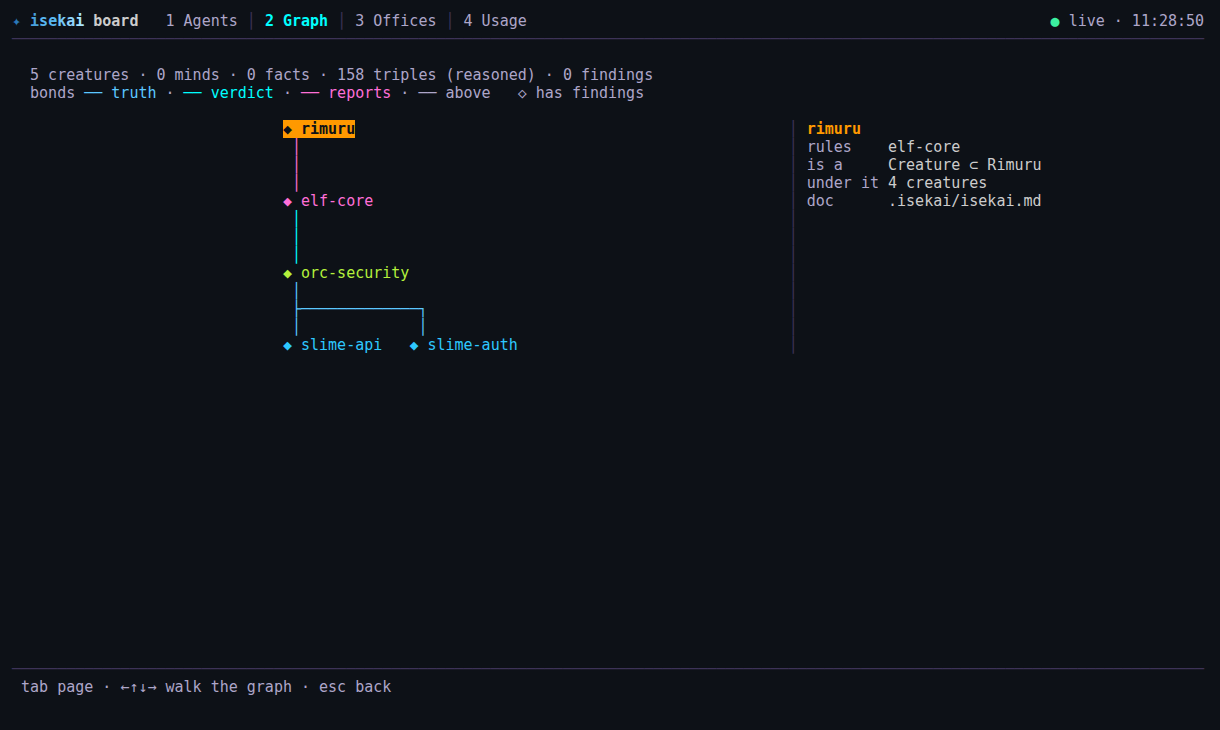
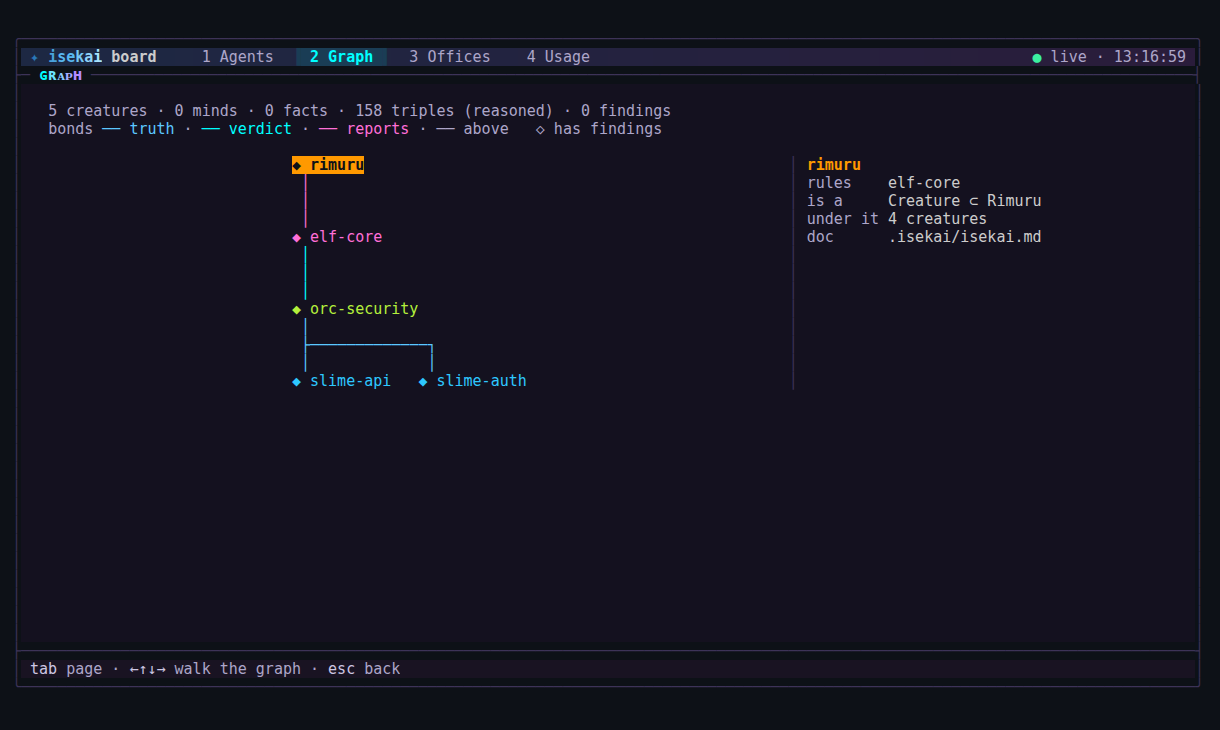
feat(tui): /board wears the session's frame — the rounded border on the ground, the raised header with the page tabs as chips, the page named in its rule, the page on the plane, the keys in the status bar, the headroom row kept; a short window tightens Usage before it scrolls

diff --git a/tui/board.go b/tui/board.go
@@ -2,6 +2,7 @@ package tui
 
 import (
 	"fmt"
+	"image/color"
 	"strings"
 	"time"
 
@@ -218,17 +219,24 @@ func (m *Model) boardUpdate(msg tea.Msg) (tea.Cmd, bool) {
 
 // boardView draws the whole screen: tabs, the page, the key line.
 func (m *Model) boardView() string {
-	b, t, w, h := m.board, m.theme, m.width, m.height
-	if h < 8 {
-		h = 8
+	b, t, w, h := m.board, m.theme, m.width, m.height-paneTop
+	if h < 9 {
+		h = 9
 	}
+	// the board wears the session's frame: the rounded border on the ground, the raised header
+	// with the page tabs as chips, a region rule naming the page, the page on the plane, the keys
+	// in the status bar — the same look, palette and depth as the conversation it replaces
+	accentHue := t.accent.GetForeground()
 	var tabs []string
 	for i, p := range boardPages {
 		label := fmt.Sprintf(" %d %s ", i+1, p)
-		if i == b.page {
+		switch {
+		case i == b.page && t.Depth:
+			tabs = append(tabs, t.pillChip(accentHue, label))
+		case i == b.page:
 			tabs = append(tabs, t.accent.Bold(true).Underline(true).Render(label))
-		} else {
-			tabs = append(tabs, t.dim.Render(label))
+		default:
+			tabs = append(tabs, " "+t.dim.Render(label)+" ")
 		}
 	}
 	title := Title(m.words.Dist) + t.tag.Render(" board")
@@ -236,16 +244,17 @@ func (m *Model) boardView() string {
 	if b.loaded {
 		status = t.ok.Render("●") + t.dim.Render(" live · "+b.view.At.Format("15:04:05"))
 	}
-	head := title + "  " + strings.Join(tabs, t.border.Render("│"))
+	inner := w - 4 // between "│ " and " │"
+	head := title + "   " + strings.Join(tabs, "")
+	// the tabs' click spans, in screen columns: the frame's "│ " comes first
 	b.tabX = b.tabX[:0]
-	x := lipgloss.Width(title) + 2
-	for i, p := range boardPages {
-		w := lipgloss.Width(fmt.Sprintf(" %d %s ", i+1, p))
-		b.tabX = append(b.tabX, [2]int{x, x + w})
-		x += w + 1
+	x := 2 + lipgloss.Width(title) + 3
+	for _, tb := range tabs {
+		tw := lipgloss.Width(tb)
+		b.tabX = append(b.tabX, [2]int{x, x + tw})
+		x += tw
 	}
-	head = padBetween(head, status, w)
-	rule := t.border.Render(strings.Repeat("─", w))
+	head = padBetween(head, status, inner)
 
 	var lines []string
 	cur := -1
@@ -260,7 +269,18 @@ func (m *Model) boardView() string {
 	case pageUsage:
 		lines, cur = m.boardUsage()
 	}
-	body := h - 4
+	body := h - 6 // top border, header, rule · rule, status, bottom border
+	// a short window tightens Usage before it scrolls: its spacer rows go (it has no click
+	// targets, so no hit moves)
+	if b.page == pageUsage && len(lines) > body {
+		kept := lines[:0:0]
+		for _, l := range lines {
+			if strings.TrimSpace(ansi.Strip(l)) != "" {
+				kept = append(kept, l)
+			}
+		}
+		lines = kept
+	}
 	// the cursor: clamped to the page, and kept in view
 	if len(lines) == 0 {
 		lines = []string{""}
@@ -298,9 +318,6 @@ func (m *Model) boardView() string {
 	for len(view) < body {
 		view = append(view, "")
 	}
-	for i, l := range view {
-		view[i] = ansi.Truncate(l, w, "…")
-	}
 	keys := "tab page · ↑↓ select · enter detail · esc back"
 	if b.page == pageGraph {
 		keys = "tab page · ←↑↓→ walk the graph · esc back"
@@ -312,8 +329,48 @@ func (m *Model) boardView() string {
 	if len(lines) > body {
 		more = fmt.Sprintf("%d–%d of %d", off+1, end, len(lines))
 	}
-	foot := padBetween(t.dim.Render(" "+keys), t.dim.Render(more+" "), w)
-	return strings.Join(append(append([]string{head, rule}, view...), rule, foot), "\n")
+
+	// the frame's paints: identity when the depth is off
+	g := func(s string) string { return t.border.Render(s) }
+	plane, headP, statusP := func(s string) string { return s }, func(s string) string { return s }, func(s string) string { return s }
+	ruleP := func(s string) string { return s }
+	if t.Depth {
+		d := t.dep
+		ground := d.ground.col()
+		bf := t.border.GetForeground()
+		g = func(s string) string { return gl(s, bf, ground) }
+		pc := d.plane.col()
+		plane = func(s string) string { return paintBg(s, pc) }
+		from, to := t.headerTints()
+		hw := w - 2
+		ramp := make([]color.Color, hw)
+		for x := range ramp {
+			ramp[x] = from.mix(to, float64(x)/float64(max(hw-1, 1))).col()
+		}
+		headP = func(s string) string { return paint(s, func(x int) color.Color { return ramp[min(x, hw-1)] }) }
+		sb := t.statusBg()
+		statusP = func(s string) string { return paintBg(s, sb) }
+		ruleP = func(s string) string { return paintBg(s, ground) }
+	}
+	pageTitle := t.regionTitle(strings.ToLower(boardPages[b.page]))
+	out := make([]string, 0, h+paneTop)
+	for i := 0; i < paneTop; i++ {
+		out = append(out, strings.Repeat(" ", w))
+	}
+	out = append(out, g("╭")+ruleP(t.rule(w-2, "", ""))+g("╮"))
+	out = append(out, g("│")+headP(" "+fit(head, inner)+" ")+g("│"))
+	aside := ""
+	if more != "" {
+		aside = t.dim.Render(more)
+	}
+	out = append(out, g("├")+ruleP(t.rule(w-2, pageTitle, aside))+g("┤"))
+	for _, l := range view {
+		out = append(out, g("│")+plane(" "+fit(ansi.Truncate(l, inner, "…"), inner)+" ")+g("│"))
+	}
+	out = append(out, g("├")+ruleP(t.rule(w-2, "", ""))+g("┤"))
+	out = append(out, g("│")+statusP(" "+fit(t.keys(keys), inner)+" ")+g("│"))
+	out = append(out, g("╰")+ruleP(t.rule(w-2, "", ""))+g("╯"))
+	return strings.Join(out, "\n")
 }
 
 // padBetween puts left and right on one line of width w.
@@ -326,7 +383,7 @@ func padBetween(left, right string, w int) string {
 }
 
 func (m *Model) boardAgents() ([]string, int) {
-	b, t, w := m.board, m.theme, m.width
+	b, t, w := m.board, m.theme, m.boardInner()
 	rows := b.view.Agents
 	if !b.loaded {
 		return []string{"", t.dim.Render("  reading the court…")}, -1
@@ -352,9 +409,10 @@ func (m *Model) boardAgents() ([]string, int) {
 		nameW = 24
 	}
 	// columns by priority: the narrow screen keeps state, context and spend
-	showRank, showOffice, showAge, showModel := w >= 72, w >= 92, w >= 84, w >= 120
+	// the thresholds are the window's less the frame's four columns
+	showRank, showOffice, showAge, showModel := w >= 68, w >= 88, w >= 80, w >= 116
 	stateW := 16
-	if w < 80 {
+	if w < 76 {
 		stateW = 12
 	}
 	now := b.view.At
@@ -440,7 +498,7 @@ func (m *Model) boardAgents() ([]string, int) {
 }
 
 func (m *Model) boardOffices() ([]string, int) {
-	b, t, w := m.board, m.theme, m.width
+	b, t, w := m.board, m.theme, m.boardInner()
 	if !b.loaded {
 		return []string{"", t.dim.Render("  reading the offices…")}, -1
 	}
@@ -474,7 +532,7 @@ func (m *Model) boardOffices() ([]string, int) {
 			mark, name = t.accent.Render("›")+" ", t.tag.Render(name)
 		}
 		model := r.Model
-		if r.Fallback != "" && w >= 120 {
+		if r.Fallback != "" && w >= 116 {
 			model += t.dim.Render("  ↳ " + r.Fallback)
 		}
 		cells = append(cells, []string{mark + t.accent.Render("◆"), name, r.Role, live, humanTokens(spent[r.Name].Tokens), model})
@@ -511,7 +569,7 @@ func (m *Model) boardOffices() ([]string, int) {
 }
 
 func (m *Model) boardUsage() ([]string, int) {
-	b, t, w := m.board, m.theme, m.width
+	b, t, w := m.board, m.theme, m.boardInner()
 	u := b.view.Usage
 	if !b.loaded {
 		return []string{"", t.dim.Render("  reading the usage journal…")}, -1
@@ -694,7 +752,7 @@ func (m *Model) boardClick(ms tea.Mouse) {
 	if ms.Button != tea.MouseLeft {
 		return
 	}
-	if ms.Y == 0 {
+	if ms.Y == paneTop+1 { // the header row inside the frame
 		for i, r := range b.tabX {
 			if ms.X >= r[0] && ms.X < r[1] {
 				b.page, b.detail = i, false
@@ -702,9 +760,10 @@ func (m *Model) boardClick(ms tea.Mouse) {
 		}
 		return
 	}
-	line := ms.Y - 2 + b.lastOff
+	line := ms.Y - (paneTop + 3) + b.lastOff
+	mx := ms.X - 2 // the frame's "│ " gutter
 	for _, h := range b.hits {
-		if h.line != line || ms.X < h.x0 || ms.X >= h.x1 {
+		if h.line != line || mx < h.x0 || mx >= h.x1 {
 			continue
 		}
 		if h.id != "" {
@@ -737,3 +796,7 @@ func (m *Model) boardTable(headers []string, rows [][]string, right map[int]bool
 		})
 	return strings.Split(tb.Render(), "\n")
 }
+
+// boardInner is the width a board page lays itself out in: the window less the frame's
+// "│ " and " │".
+func (m *Model) boardInner() int { return max(m.width-4, 20) }

diff --git a/tui/board_test.go b/tui/board_test.go
@@ -135,7 +135,7 @@ func TestBoardMouse(t *testing.T) {
 	screen(m)
 	// a click on the third tab
 	x := m.board.tabX[2][0] + 1
-	m.Update(tea.MouseClickMsg{X: x, Y: 0, Button: tea.MouseLeft})
+	m.Update(tea.MouseClickMsg{X: x, Y: paneTop + 1, Button: tea.MouseLeft}) // the header row inside the frame
 	if m.board.page != pageOffices {
 		t.Fatalf("tab click: page %d", m.board.page)
 	}
@@ -151,7 +151,7 @@ func TestBoardMouse(t *testing.T) {
 	if target.id == "" {
 		t.Fatal("orc-db drew no hit")
 	}
-	m.Update(tea.MouseClickMsg{X: target.x0 + 1, Y: target.line - m.board.lastOff + 2, Button: tea.MouseLeft})
+	m.Update(tea.MouseClickMsg{X: target.x0 + 1 + 2, Y: target.line - m.board.lastOff + paneTop + 3, Button: tea.MouseLeft})
 	if m.board.sel != "orc-db" {
 		t.Fatalf("node click selected %q", m.board.sel)
 	}
@@ -159,7 +159,7 @@ func TestBoardMouse(t *testing.T) {
 	m.Update(tea.KeyPressMsg{Code: '1', Text: "1"})
 	screen(m)
 	row := m.board.hits[2]
-	click := tea.MouseClickMsg{X: 4, Y: row.line - m.board.lastOff + 2, Button: tea.MouseLeft}
+	click := tea.MouseClickMsg{X: 4 + 2, Y: row.line - m.board.lastOff + paneTop + 3, Button: tea.MouseLeft}
 	m.Update(click)
 	m.Update(click)
 	if m.board.cursor[pageAgents] != 2 || !m.board.detail {

diff --git a/tui/graph.go b/tui/graph.go
@@ -316,7 +316,7 @@ func abs(n int) int {
 }
 
 func (m *Model) boardGraph() ([]string, int) {
-	b, t, w := m.board, m.theme, m.width
+	b, t, w := m.board, m.theme, m.boardInner()
 	gv := b.view.Graph
 	if !b.loaded {
 		return []string{"", t.dim.Render("  reasoning over the ontology…")}, -1
@@ -348,7 +348,7 @@ func (m *Model) boardGraph() ([]string, int) {
 	sel := g.nodes[b.sel]
 	lines = append(lines, "")
 	cardW := 0
-	if w >= 100 {
+	if w >= 96 {
 		cardW = min(46, w/3)
 	}
 	viewW := w - 2
